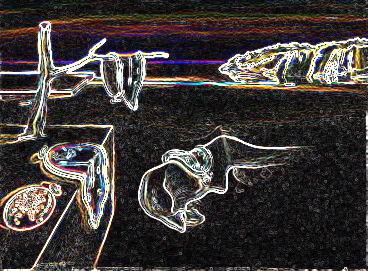
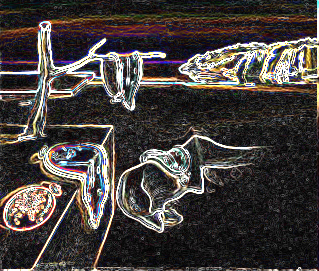
simplified marking of seam by modifying minPathVert and minPathHorizontal. removed markSeam method

diff --git a/src/SeamCarving.cpp b/src/SeamCarving.cpp
@@ -14,7 +14,6 @@ FloatImage minPathVert(const FloatImage &im)
 {
     int width = im.width();
     int height = im.height();
-    int channels = im.channels();
 
     FloatImage energy = gradientMagnitude(im);
     energy.write(DATA_DIR "/output/energy.png");
@@ -64,10 +63,9 @@ FloatImage minPathVert(const FloatImage &im)
     // Now find the minimum seam starting at (minX, 0)
     FloatImage res(im);
     int x = minX;
-    for (int c = 0; c < channels; c++)
-    {
-        res(x, 0, c) = -1;
-    }
+    res(x, 0, 0) = 1.0f;
+    res(x, 0, 1) = 1.0f;
+    res(x, 0, 2) = -1.0f;
 
     // Find the minimum seam, marking pixels in the seam with -1
     for (int y = 0; y < height - 1; y++)
@@ -86,11 +84,10 @@ FloatImage minPathVert(const FloatImage &im)
             x++;
         }
 
-        // Mark as part of minimum energy seam
-        for (int c = 0; c < channels; c++)
-        {
-            res(x, y + 1, c) = -1;
-        }
+        // Mark as part of minimum energy seam. 
+        res(x, y + 1, 0) = 1.0f;
+        res(x, y + 1, 1) = 1.0f;
+        res(x, y + 1, 2) = -1.0f;
     }
 
     return res;
@@ -100,7 +97,6 @@ FloatImage minPathHorizontal(const FloatImage &im)
 {
     int width = im.width();
     int height = im.height();
-    int channels = im.channels();
 
     FloatImage energy = gradientMagnitude(im);
     //energy.write(DATA_DIR "/output/energy.png");
@@ -150,10 +146,9 @@ FloatImage minPathHorizontal(const FloatImage &im)
     // Now find the minimum seam starting at (0, minY)
     FloatImage res(im);
     int y = minY;
-    for (int c = 0; c < channels; c++)
-    {
-        res(0, y, c) = -1;
-    }
+    res(0, y, 0) = 1.0f;
+    res(0, y, 1) = 1.0f;
+    res(0, y, 2) = -1.0f;
 
     // Find the minimum seam, marking pixels in the seam with -1
     for (int x = 0; x < width - 1; x++)
@@ -173,10 +168,9 @@ FloatImage minPathHorizontal(const FloatImage &im)
         }
 
         // Mark as part of minimum energy seam
-        for (int c = 0; c < channels; c++)
-        {
-            res(x + 1, y, c) = -1;
-        }
+        res(x + 1, y, 0) = 1.0f;
+        res(x + 1, y, 1) = 1.0f;
+        res(x + 1, y, 2) = -1.0f;
     }
 
     return res;
@@ -200,7 +194,7 @@ FloatImage removeSeam(const FloatImage &im, bool vertSeam)
         {
             for (int imX = 0, resX = 0; imX < width; imX++)
             {
-                if (im(imX, y) != -1.0f)
+                if (im(imX, y, 2) != -1.0f)
                 {
                     for (int c = 0; c < channels; c++)
                     {
@@ -217,7 +211,7 @@ FloatImage removeSeam(const FloatImage &im, bool vertSeam)
         {
             for (int imY = 0, resY = 0; imY < height; imY++)
             {
-                if (im(x, imY) != -1.0f)
+                if (im(x, imY, 2) != -1.0f)
                 {
                     for (int c = 0; c < channels; c++)
                     {
@@ -232,30 +226,9 @@ FloatImage removeSeam(const FloatImage &im, bool vertSeam)
     return res;
 }
 
+
 // Assumes that im is an image that has had a seam marked using minPath
 // Marks the seam with given rgb color, defaults to yellow
-FloatImage markSeam(const FloatImage &im, const float r, const float g, const float b)
-{
-    int width = im.width();
-    int height = im.height();
-
-    FloatImage res(im);
-    for (int x = 0; x < width; x++)
-    {
-        for (int y = 0; y < height; y++)
-        {
-            if (res(x, y) == -1.0f)
-            {
-                res(x, y, 0) = r;
-                res(x, y, 1) = g;
-                res(x, y, 2) = b;
-            }
-        }
-    }
-
-    return res;
-}
-
 FloatImage removeNSeams(const FloatImage &im, int n, bool verticalSeam, bool writeIntermediates)
 {
     if ((verticalSeam && im.width() < n) || (!verticalSeam && im.height() < n))
@@ -271,7 +244,7 @@ FloatImage removeNSeams(const FloatImage &im, int n, bool verticalSeam, bool wri
             ostringstream ss;
             ss << DATA_DIR "/output/" << i + 1 << ".png";
             string filename = ss.str();
-            markSeam(path).write(filename); // replaces -1s with yellow
+            path.write(filename);
         }
 
         curr = removeSeam(path, verticalSeam);

diff --git a/src/SeamCarving.h b/src/SeamCarving.h
@@ -9,19 +9,21 @@
 #include "exceptions.h"
 
 /* 
- * minPathVert: takes a FloatImage im, returning a FloatImage with a vertical seam marked with -1s
+ * minPathVert: takes a FloatImage im, returning a FloatImage with a vertical seam with G channel marked -1
+ * When displayed, the returned FloatImage highlights the seam in yellow.
  * Uses gradientMagnitude and dynamic programming to find the minimum "cost" from top-bottom of the image
  * The seam varies horizontally by at most one pixel from the pixel above/below
- * To remove the seam, see removeSeam. To mark the seam with a color, see markSeam
+ * To remove the seam, see removeSeam. 
  */
 FloatImage minPathVert(const FloatImage &im);
 
 
 /* 
- * minPathVert: takes a FloatImage im, returning a FloatImage with a horizontal seam marked with -1s
+ * minPathVert: takes a FloatImage im, returning a FloatImage with a horizontal seam with G channel marked -1
+ * When displayed, the returned FloatImage highlights the seam in yellow.
  * Uses gradientMagnitude and dynamic programming to find the minimum "cost" from left-right of the image
  * The seam varies vertically by at most one pixel from the pixel to the left/right
- * To remove the seam, see removeSeam. To mark the seam with a color, see markSeam
+ * To remove the seam, see removeSeam.
  */
 FloatImage minPathHorizontal(const FloatImage &im);
 
@@ -32,14 +34,6 @@ FloatImage minPathHorizontal(const FloatImage &im);
  * Iterates over each pixel in the image and skips pixels marked as part of the seam(-1)
  */
 FloatImage removeSeam(const FloatImage &im, bool vertSeam = true);
-
-
-/*
- * markSeam: takes a FloatImage im and rgb values, returning a FloatImage the seam marked with the given rgb
- * im is assumed to have been created by minPathVert or minPathHorizontal, and rgb defaults to yellow
- * Iterates over each pixel in the image, recoloring pixels marked as part of the seam(-1)
- */
-FloatImage markSeam(const FloatImage &im, const float r = 1.0f, const float g = 1.0f, const float b = 0.0f);
 
 
 /*

diff --git a/src/SeamCarving_main.cpp b/src/SeamCarving_main.cpp
@@ -32,15 +32,14 @@ void testMarkPath()
   FloatImage test(DATA_DIR "/input/dali.jpg");
 
   FloatImage marked = minPathVert(test);
-  FloatImage colored = markSeam(marked);
-  colored.write(DATA_DIR "/output/daliColoredSeam.png");
+  marked.write(DATA_DIR "/output/daliColoredSeam.png");
 }
 
 void testRemoveNVert()
 {
   FloatImage dali(DATA_DIR "/input/dali.jpg");
 
-  FloatImage res = removeNSeams(dali, 50, true, true);
+  FloatImage res = removeNSeams(dali, 50, true);
   res.write(DATA_DIR "/output/dali50.png");
 }
 
